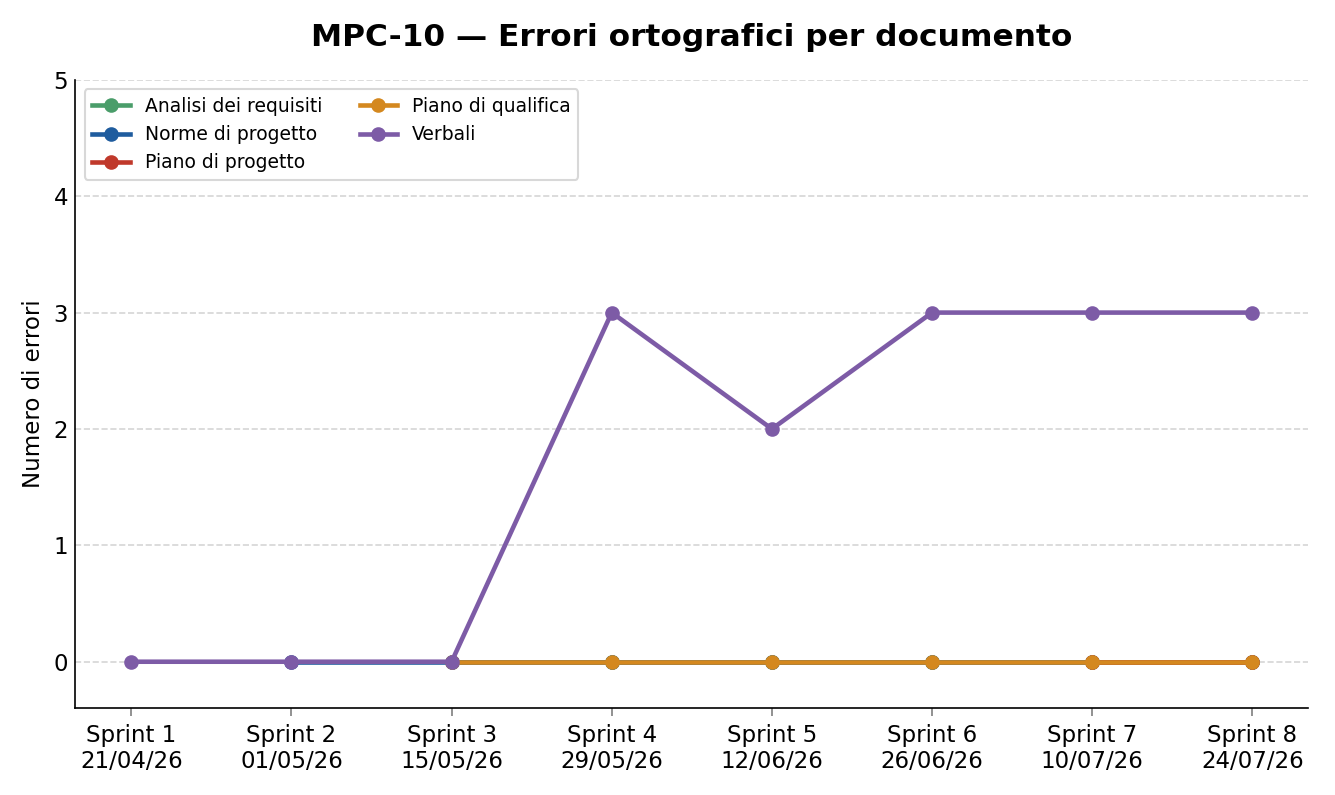
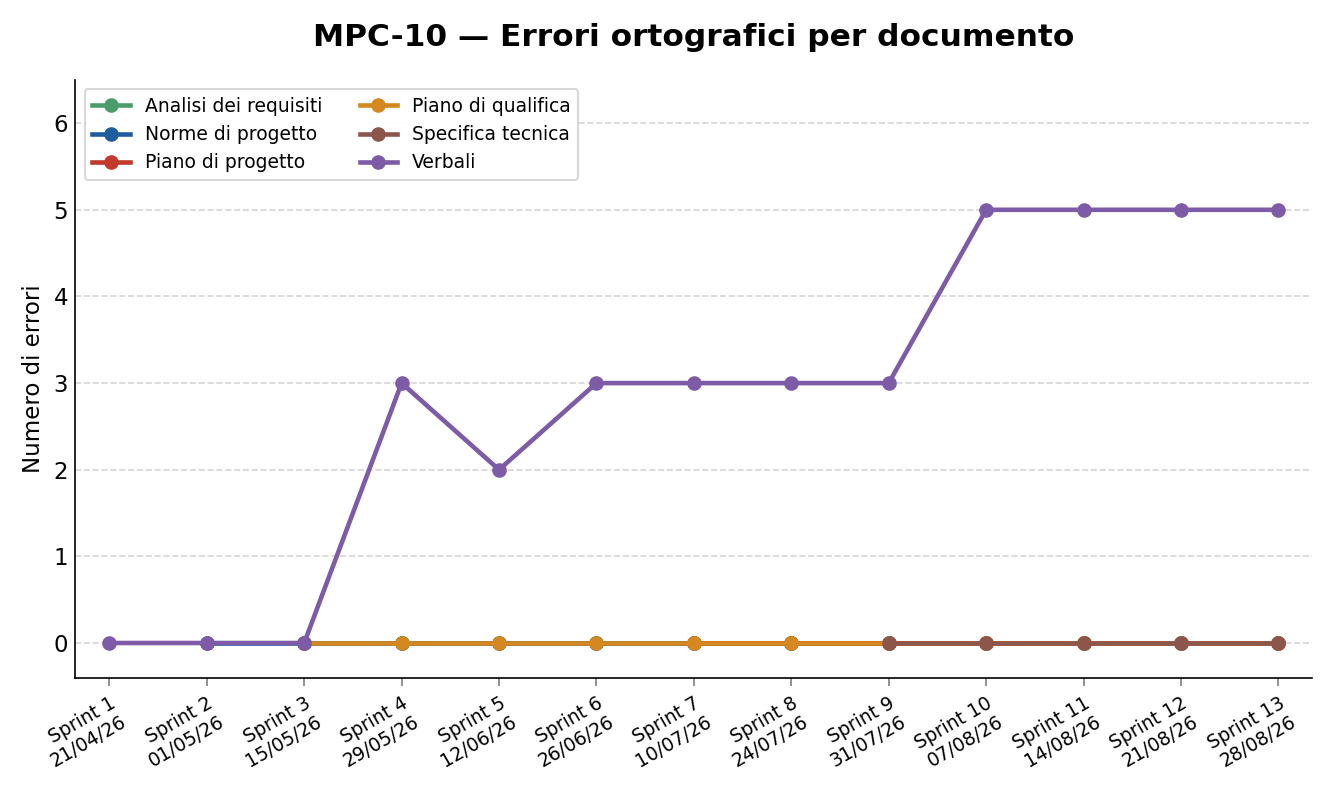
fix: aggiunto tracciamento a specifica tecnica

diff --git a/.github/scripts/ortografia.py b/.github/scripts/ortografia.py
@@ -206,12 +206,15 @@ def preprocess_for_spellcheck(text: str) -> str:
     - parole tutte maiuscole (acronimi: EN, MPC, UC, RTB, PDF…)
     - parole contenenti cifre (UC-1, v2.0, MPC-01…)
     - parole con trattino o punto interni (già coperte in parte)
+    - identificatori di codice camelCase/PascalCase (DeviceStore, useResult…)
     - URL e path
     """
     text = re.sub(r'https?://\S+', ' ', text)
     text = re.sub(r'\b[A-Z]{2,}\b', ' ', text)          # acronimi maiuscoli
     text = re.sub(r'\b\w*\d+\w*\b', ' ', text)          # parole con cifre
     text = re.sub(r'\b\w+[-./]\w+\b', ' ', text)        # codici con separatori
+    text = re.sub(r'\b\w*[a-zàèéìòù][A-Z]\w*\b', ' ', text)  # camelCase / PascalCase composto
+    text = re.sub(r'\b[A-Z]{2,}[a-zàèéìòù]\w*\b', ' ', text)  # acronimo + parola (UIStore, APIClient)
     text = re.sub(r'[^\w\s]', ' ', text)                 # simboli residui
     text = re.sub(r'\s+', ' ', text)
     return text.strip()

diff --git a/.github/update_website.py b/.github/update_website.py
@@ -108,7 +108,10 @@ def aggiorna_html():
             continue
         if "website" in percorso_str:
             continue
-        if "Verbali/Esterni" in percorso_str and not file_path.stem.endswith("_firmato"):
+        # Dei verbali esterni si pubblica solo la versione firmata. Il suffisso
+        # e' stato scritto sia come "_firmato" (RTB) sia come "-firmato" (PB):
+        # si accettano entrambi.
+        if "Verbali/Esterni" in percorso_str and not file_path.stem.endswith(("_firmato", "-firmato")):
             continue
         card_html = genera_card_html(file_path)
         if "Candidatura" in percorso_str:
